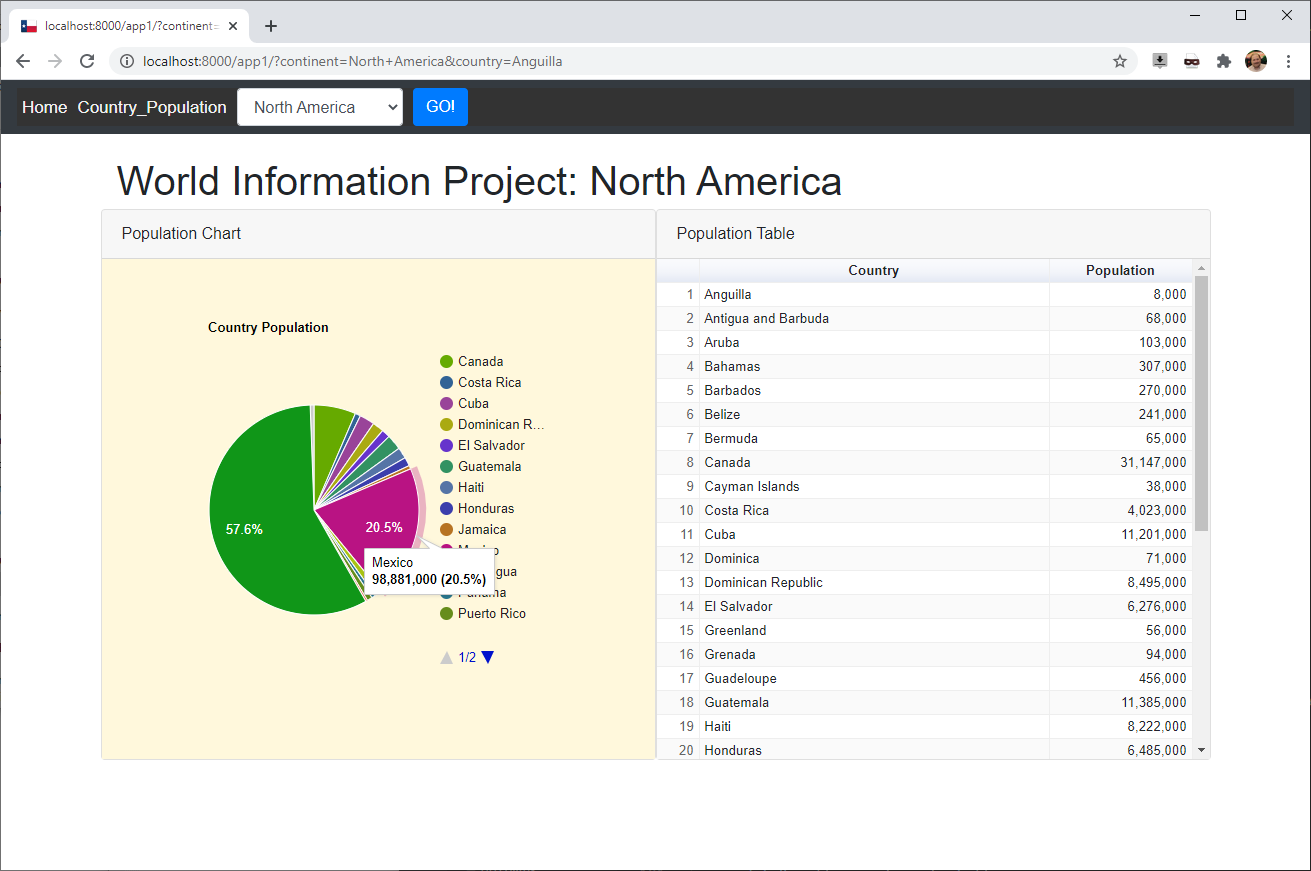
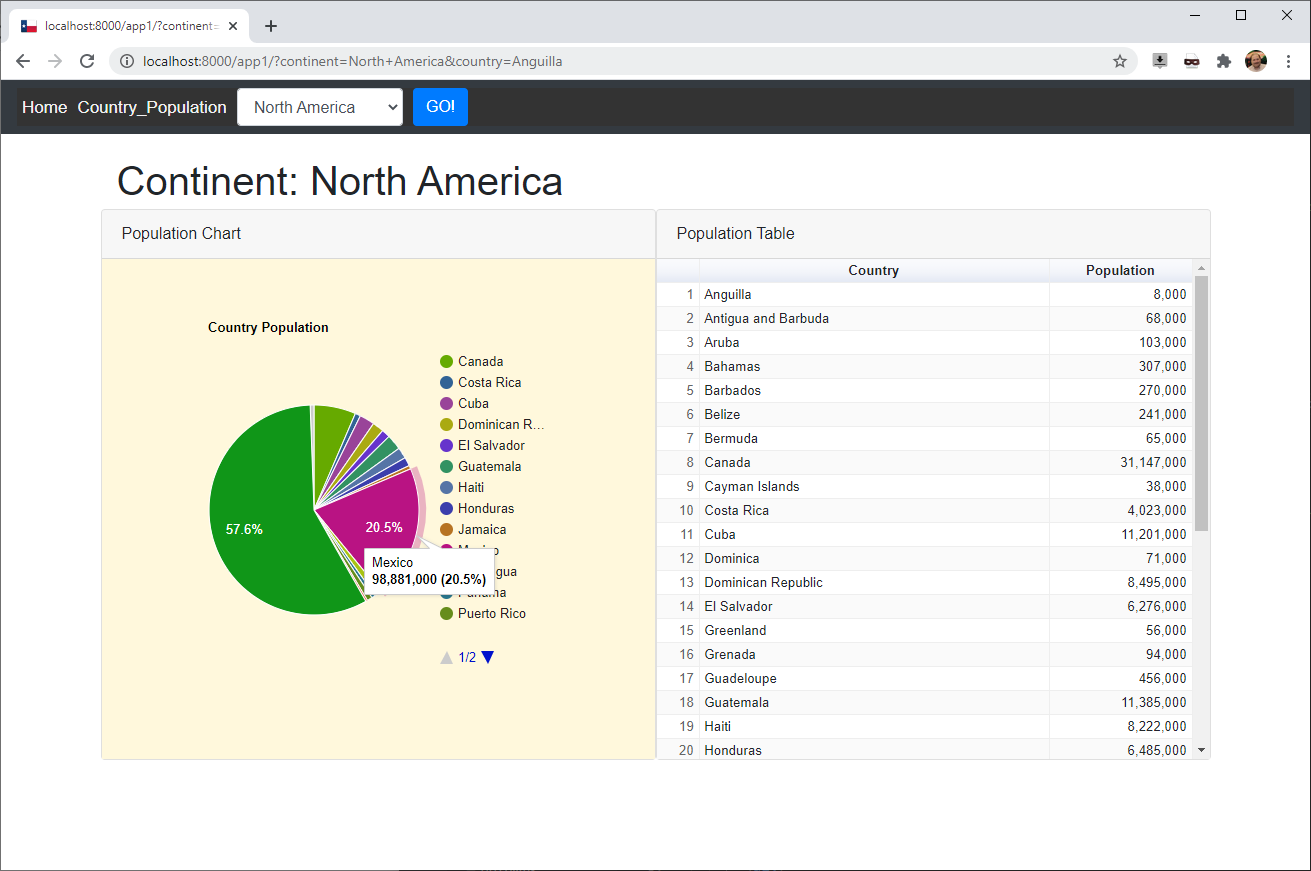
Updating images
Updating images

Changed region(s): [[0.0915, 0.186, 0.6407, 0.248]]

diff --git a/app1/templates/app1.html b/app1/templates/app1.html
@@ -13,7 +13,7 @@
   <div class="container">
     <div id="thespinner"></div>
       <br>
-      <h1 style="padding: 4px 16px; margin-top:0px;margin-bottom:0px;">World Information Project: {{s_continent}}</h1>
+      <h1 style="padding: 4px 16px; margin-top:0px;margin-bottom:0px;">Continent: {{s_continent}}</h1>
 
 
       {% for name in continents %}
